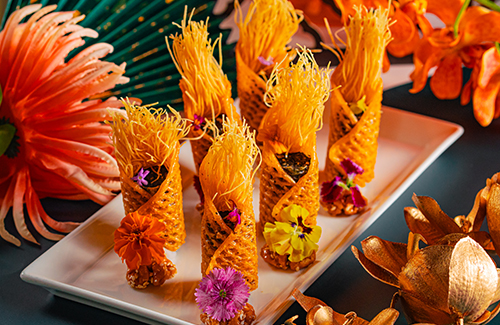
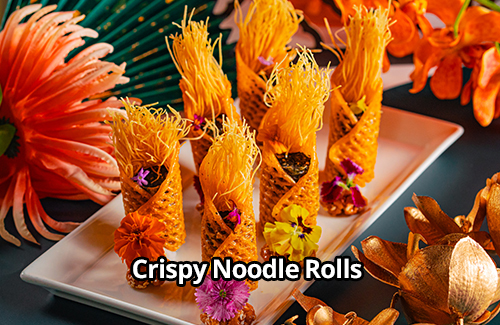
30/03/24

Changed region(s): [[0.24, 0.7692, 0.75, 0.8923]]

diff --git a/assets/css/style.css b/assets/css/style.css
@@ -35065,18 +35065,18 @@ pre {
 }
 
 .section-wrapper-5 {
-    margin-left: 80px;
-    margin-right: 80px;
+    margin-left: 60px;
+    margin-right: 60px;
     z-index: 1;
     position: relative;
-    border-radius: 30px;
-    border: 30px solid transparent; /* Set a solid border with the desired width */
-    border-image-source: url('../images/background/pic1.png'); /* Specify the path to your image */
-    border-image-slice: 30 fill; /* Adjust slice values as needed */
-    border-image-width: 30px; /* Adjust border width */
-    border-image-outset: 0; /* Adjust outset as needed */
-    border-image-repeat: stretch; /* Adjust repeat behavior as needed */
-    background: none; /* Ensure no background */
+    /* border-radius: 30px; */
+    /* border: 30px solid transparent; */
+    /* border-image-source: url(../images/background/pic1.png); */
+    /* border-image-slice: 30 fill; */
+    /* border-image-width: 30px; */
+    /* border-image-outset: 0; */
+    /* border-image-repeat: stretch; */
+    /* background: none;*/
 }
 
 .section-wrapper-5::after {
@@ -35876,7 +35876,6 @@ pre {
 img {
     width: 100%;
     height: auto;
-    padding: 5px;
 }
 @media screen and (max-width: 800px) {
     .next {

diff --git a/moon-lok.php b/moon-lok.php
@@ -15,11 +15,11 @@
     <script src="https://cdnjs.cloudflare.com/ajax/libs/magnific-popup.js/1.1.0/jquery.magnific-popup.min.js"></script>
 
     <style>
-        .slide {
+        .slide-old {
             flex-shrink: 0; /* Prevent images from shrinking */
         }
 
-        .slide img {
+        .slide-old img {
             width: 210px; /* Use 100% width for images inside each slide */
             height: auto;
             animation: scroll 20s linear infinite;
@@ -44,6 +44,31 @@
                 transform: translatex(-1000%)
             }
         }
+
+        .slider-container {
+            width: 100%;
+            overflow: hidden;
+            position: relative;
+        }
+
+        .slider {
+            display: flex;
+            transition: transform 0.5s ease;
+            height: 550px;
+        }
+
+        .slider-item {
+            min-width: 100%;
+        }
+
+        .slider-item img {
+            display: block;
+        }
+        @media only screen and (max-width: 980px) {
+            .slider {
+                height: 250px;
+            }
+        }
     </style>
 </head>
 <body id="bg">
@@ -60,7 +85,6 @@
                 <div class="col-md-12">
                     <div class="overlay">
                     </div>
-                    <!-- Slider -->
                     <div class="responsive">
                         <div>
                             <img src="assets/images/restaurant/5.jpg" alt=""/>
@@ -72,13 +96,12 @@
                             <img src="assets/images/restaurant/4.jpg" alt=""/>
                         </div>
                     </div>
-                    <!-- control arrows -->
                 </div>
             </div>
         </div>
         <div class="container">
             <div class="row d-flex align-items-center justify-content-center">
-                <div class="col-12 col-lg-2">
+                <div class="col-6 col-lg-2">
                     <img class="img-fluid" src="assets/images/logo/logo.1.jpg" alt="">
                 </div>
                 <div class="col-12 col-lg-10">
@@ -276,83 +299,64 @@
             </div>
             <div class="slider1">
                 <div class="slide-track1">
-                    <div class="slide">
+                    <div class="slide-old">
                         <img src="assets/images/restaurant/awards/1.png" alt="">
                     </div>
-                    <div class="slide">
+                    <div class="slide-old">
                         <img src="assets/images/restaurant/awards/2.png" alt="">
                     </div>
-                    <div class="slide">
+                    <div class="slide-old">
                         <img src="assets/images/restaurant/awards/3.png" alt="">
                     </div>
-                    <div class="slide">
+                    <div class="slide-old">
                         <img src="assets/images/restaurant/awards/4.png" alt="">
                     </div>
-                    <div class="slide">
+                    <div class="slide-old">
                         <img src="assets/images/restaurant/awards/5.png" alt="">
                     </div>
-                    <div class="slide">
+                    <div class="slide-old">
                         <img src="assets/images/restaurant/awards/6.png" alt="">
                     </div>
-                    <div class="slide">
+                    <div class="slide-old">
                         <img src="assets/images/restaurant/awards/7.png" alt="">
                     </div>
-                    <div class="slide">
+                    <div class="slide-old">
                         <img src="assets/images/restaurant/awards/1.png" alt="">
                     </div>
-                    <div class="slide">
+                    <div class="slide-old">
                         <img src="assets/images/restaurant/awards/2.png" alt="">
                     </div>
-                    <div class="slide">
+                    <div class="slide-old">
                         <img src="assets/images/restaurant/awards/3.png" alt="">
                     </div>
                 </div>
             </div>
         </div>
-
 
         <div class="container mt-5">
-            <div class="row text-center">
-                <div class="col-12">
-                    <h3>Awards</h3>
-                </div>
-            </div>
-            <div class="slider1">
-                <div class="slide-track1">
-                    <div class="slide">
-                        <img src="assets/images/restaurant/awards/1.png" alt="">
-                    </div>
-                    <div class="slide">
-                        <img src="assets/images/restaurant/awards/2.png" alt="">
-                    </div>
-                    <div class="slide">
-                        <img src="assets/images/restaurant/awards/3.png" alt="">
-                    </div>
-                    <div class="slide">
-                        <img src="assets/images/restaurant/awards/4.png" alt="">
-                    </div>
-                    <div class="slide">
-                        <img src="assets/images/restaurant/awards/5.png" alt="">
-                    </div>
-                    <div class="slide">
-                        <img src="assets/images/restaurant/awards/6.png" alt="">
-                    </div>
-                    <div class="slide">
-                        <img src="assets/images/restaurant/awards/7.png" alt="">
-                    </div>
-                    <div class="slide">
-                        <img src="assets/images/restaurant/awards/1.png" alt="">
-                    </div>
-                    <div class="slide">
-                        <img src="assets/images/restaurant/awards/2.png" alt="">
-                    </div>
-                    <div class="slide">
-                        <img src="assets/images/restaurant/awards/3.png" alt="">
-                    </div>
+            <div class="slider-container">
+                <div class="slider">
+                    <div class="slider-item img-fluid"><img src="assets/images/ML/1.jpg" alt="Image 1"></div>
+                    <div class="slider-item img-fluid"><img src="assets/images/ML/2.jpg" alt="Image 2"></div>
+                    <div class="slider-item img-fluid"><img src="assets/images/ML/3.jpg" alt="Image 3"></div>
+                    <div class="slider-item img-fluid"><img src="assets/images/ML/4.jpg" alt="Image 1"></div>
+                    <div class="slider-item img-fluid"><img src="assets/images/ML/5.jpg" alt="Image 2"></div>
+                    <div class="slider-item img-fluid"><img src="assets/images/ML/6.jpg" alt="Image 3"></div>
+                    <div class="slider-item img-fluid"><img src="assets/images/ML/7.jpg" alt="Image 1"></div>
+                    <div class="slider-item img-fluid"><img src="assets/images/ML/8.jpg" alt="Image 2"></div>
+                    <div class="slider-item img-fluid"><img src="assets/images/ML/9.jpg" alt="Image 3"></div>
+                    <div class="slider-item img-fluid"><img src="assets/images/ML/10.jpg" alt="Image 1"></div>
+                    <div class="slider-item img-fluid"><img src="assets/images/ML/11.jpg" alt="Image 2"></div>
+                    <div class="slider-item img-fluid"><img src="assets/images/ML/12.jpg" alt="Image 3"></div>
+                    <!-- Add more slider-items as needed -->
                 </div>
             </div>
         </div>
+
+
+
     </section>
+
 
     <?php
     include('include/footer.php')
@@ -363,6 +367,27 @@
 include('include/js.php')
 ?>
 <script>
+
+    const slider = document.querySelector('.slider');
+    let slides = document.querySelectorAll('.slider-item');
+    let index = 0;
+
+    function nextSlide() {
+        index++;
+        if (index === slides.length) {
+            index = 0;
+        }
+        updateSlider();
+    }
+
+    function updateSlider() {
+        slider.style.transform = `translateX(-${index * 100}%)`;
+    }
+
+    setInterval(nextSlide, 3000);
+    // Change slide every 3 seconds
+
+
     $(document).ready(function () {
         $('.image-link').magnificPopup({
             type: 'image',
@@ -408,15 +433,15 @@ include('include/js.php')
             {
                 breakpoint: 600,
                 settings: {
-                    slidesToShow: 3,
-                    slidesToScroll: 3
+                    slidesToShow: 1,
+                    slidesToScroll: 1
                 }
             },
             {
                 breakpoint: 480,
                 settings: {
-                    slidesToShow: 3,
-                    slidesToScroll: 3
+                    slidesToShow: 1,
+                    slidesToScroll: 1
                 }
             }
         ]

diff --git a/index.php b/index.php
@@ -140,7 +140,7 @@
                                         <a href="#" class="gallery-link">
                                             <div class="gallery-box-1">
                                                 <img src="assets/images/gallery/grid5/pic1.jpg" alt="/">
-                                                <div class="overlay-text">Burned Giant Conch</div>
+                                                <div class="overlay-text">Poached Sliced Whelk with Ham</div>
                                             </div>
                                         </a>
                                     </li>
@@ -148,7 +148,7 @@
                                         <a href="#" class="gallery-link">
                                             <div class="gallery-box-1">
                                                 <img src="assets/images/gallery/grid5/pic5.jpg" alt="/">
-                                                <div class="overlay-text"></div>
+                                                <div class="overlay-text">Poached Sliced Whelk with Ham</div>
                                             </div>
                                         </a>
                                     </li>
@@ -188,6 +188,7 @@
                         <div class="">
                             <div class="dz-media">
                                 <img src="assets/images/gallery/grid3/pic1.jpg" alt="/">
+                                <div class="overlay-text" style="font-size: 22px;">Crispy Noodle Rolls</div>
                             </div>
                         </div>
                     </div>
@@ -195,13 +196,15 @@
                         <div class="">
                             <div class="dz-media">
                                 <img src="assets/images/gallery/grid3/pic2.jpg" alt="/">
+                                <div class="overlay-text" style="font-size: 22px;">Braised Pomelo Peel with Abalone - 6 Catty</div>
                             </div>
                         </div>
                     </div>
                     <div class="col-lg-3 col-md-6 col-sm-6 wow fadeInUp" data-wow-delay="0.8s">
                         <div class="">
-                            <div class="">
+                            <div class="dz-media">
                                 <img src="assets/images/gallery/grid3/pic3.jpg" alt="/">
+                                <div class="overlay-text" style="font-size: 22px;">Chiu Chow Mixed Sweet Dumpling Soup</div>
                             </div>
                         </div>
                     </div>
@@ -209,6 +212,7 @@
                         <div class="">
                             <div class="dz-media">
                                 <img src="assets/images/gallery/grid3/pic4.jpg" alt="/">
+                                <div class="overlay-text" style="font-size: 22px;">Sauteed Prawn with Lily Bulbs and Preserved Olives</div>
                             </div>
                         </div>
                     </div>

diff --git a/test.php b/test.php
@@ -4,42 +4,13 @@
     <meta charset="UTF-8">
     <meta name="viewport" content="width=device-width, initial-scale=1.0">
     <title>Image Slider</title>
-    <link href="https://cdn.jsdelivr.net/npm/bootstrap@5.3.0-alpha1/dist/css/bootstrap.min.css" rel="stylesheet">
+    <?php
+    include('include/header.php');
+    ?>
+    <link rel="stylesheet" href="https://cdnjs.cloudflare.com/ajax/libs/magnific-popup.js/1.1.0/magnific-popup.min.css">
+    <script src="https://cdnjs.cloudflare.com/ajax/libs/jquery/3.6.0/jquery.min.js"></script>
+    <script src="https://cdnjs.cloudflare.com/ajax/libs/magnific-popup.js/1.1.0/jquery.magnific-popup.min.js"></script>
 
-    <style>
-        @media (max-width: 767px) {
-            .carousel-inner .carousel-item > div {
-                display: none;
-            }
-            .carousel-inner .carousel-item > div:first-child {
-                display: block;
-            }
-        }
-
-        .carousel-inner .carousel-item.active,
-        .carousel-inner .carousel-item-next,
-        .carousel-inner .carousel-item-prev {
-            display: flex;
-        }
-
-        /* medium and up screens */
-        @media (min-width: 768px) {
-            .carousel-inner .carousel-item-end.active,
-            .carousel-inner .carousel-item-next {
-                transform: translateX(25%);
-            }
-
-            .carousel-inner .carousel-item-start.active,
-            .carousel-inner .carousel-item-prev {
-                transform: translateX(-25%);
-            }
-        }
-
-        .carousel-inner .carousel-item-end,
-        .carousel-inner .carousel-item-start {
-            transform: translateX(0);
-        }
-    </style>
 </head>
 <body>
 

diff --git a/pak-loh.php b/pak-loh.php
@@ -258,6 +258,23 @@
                     </a>
                 </div>
             </div>
+            <div class="row mt-3">
+                <div class="col-12 col-lg-4">
+                    <a href="assets/images/restaurant/pak/4.jpg" class="image-link">
+                        <img src="assets/images/restaurant/pak/9.jpg" alt="" class="img-fluid">
+                    </a>
+                </div>
+                <div class="col-12 col-lg-8">
+                    <p>Lorem Ipsum is simply dummy text of the printing and typesetting industry. Lorem Ipsum has been
+                        the industry's standard dummy text ever since the 1500s, when an unknown printer took a galley
+                        of type and scrambled it to make a type specimen book. It has survived not only five centuries,
+                        but also the leap into electronic typesetting, remaining essentially unchanged. It was
+                        popularised in the 1960s with the release of Letraset sheets containing Lorem Ipsum passages,
+                        and more recently with desktop publishing software like Aldus PageMaker including versions of
+                        Lorem Ipsum.</p>
+                    <!-- <a href="contact-us.php" class="btn btn-primary">Contact Us</a>-->
+                </div>
+            </div>
             <div class="row d-flex align-items-center justify-content-center mt-3">
                 <div class="col-3">
                     <a href="event.php" class="btn btn-primary">Reservation</a>

diff --git a/include/js.php b/include/js.php
@@ -37,5 +37,4 @@
             });
         }
     }
-
 </script>
